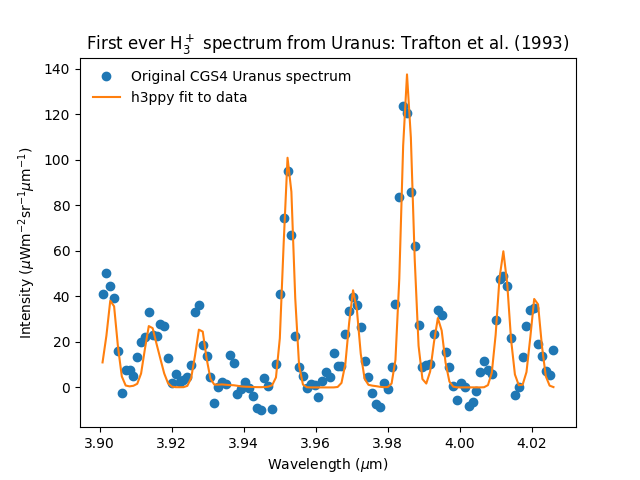
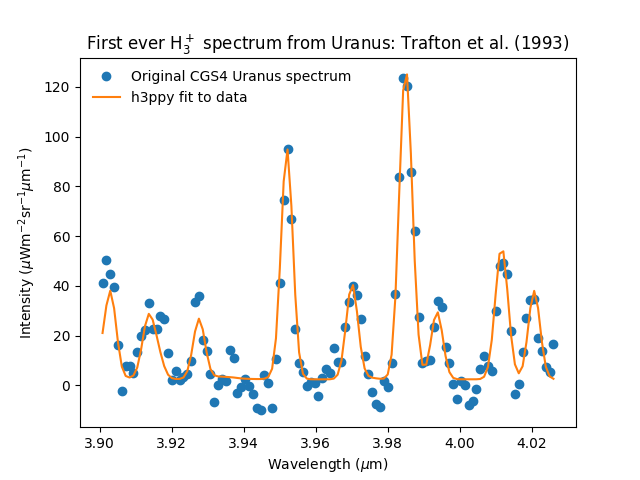
Fixed derivative fitting bug

diff --git a/examples/cgs4_uranus.py b/examples/cgs4_uranus.py
@@ -13,7 +13,6 @@ dat = np.loadtxt(data_file, skiprows=4, dtype = types)
 spectrum = dat['i'] * 4.2545e10 / (3.1 * 3.1)
 wave = dat['w']
 
-
 # Make our h3ppy object :-) 
 h3p = h3ppy.h3p()
 
@@ -21,39 +20,20 @@ h3p = h3ppy.h3p()
 # expected line width
 h3p.set(wavelength = wave, data = spectrum, R = 1300)
 
-
-# We need to guess a temperature - Voyager 2 measured 750 K
-h3p.set(temperature = 850)
+# We need to guess a temperature
+h3p.set(temperature = 1000)
 
 # Let h3ppy try and guess a wavelength offset
 guess = h3p.guess_offset()
+
 # Guess the density - this'll effectively scale the spectrum to the observed spectrum
-# It really is not a measure of the actual density.! 
+# It really is not a measure of the actual density!  
 guess = h3p.guess_density()
 
-# Do a better fit of the offset
-params_to_fit = ['offset-0']
-fit           = h3p.fit(params_to_fit = params_to_fit)    
-vars, errs    = h3p.get_results()
+# Let h3ppy do the fitting - this will do a full five parameter fit
+fit           = h3p.fit(verbose = False)    
 
-# Do a better fit for the line width
-params_to_fit = ['density', 'sigma-0']
-fit           = h3p.fit(params_to_fit = params_to_fit)    
-vars, errs    = h3p.get_results()
-
-# Make a first stab at fitting temperature and density
-params_to_fit = ['temperature', 'density']
-fit           = h3p.fit(params_to_fit = params_to_fit)    
-vars, errs    = h3p.get_results()
-
-# Fit the sigma again
-params_to_fit = ['density', 'sigma-0']
-fit           = h3p.fit(params_to_fit = params_to_fit)    
-vars, errs    = h3p.get_results()
-
-# Fit the temperature again
-params_to_fit = ['temperature', 'density']
-fit           = h3p.fit(params_to_fit = params_to_fit)    
+# Get the results
 vars, errs    = h3p.get_results()
 
 # Plot the results! 
@@ -69,4 +49,6 @@ ax.set_ylabel(h3p.ylabel(prefix = '$\mu$'))
 
 plt.savefig('cgs4_uranus_fit.png')
 plt.close()
+
+
 
